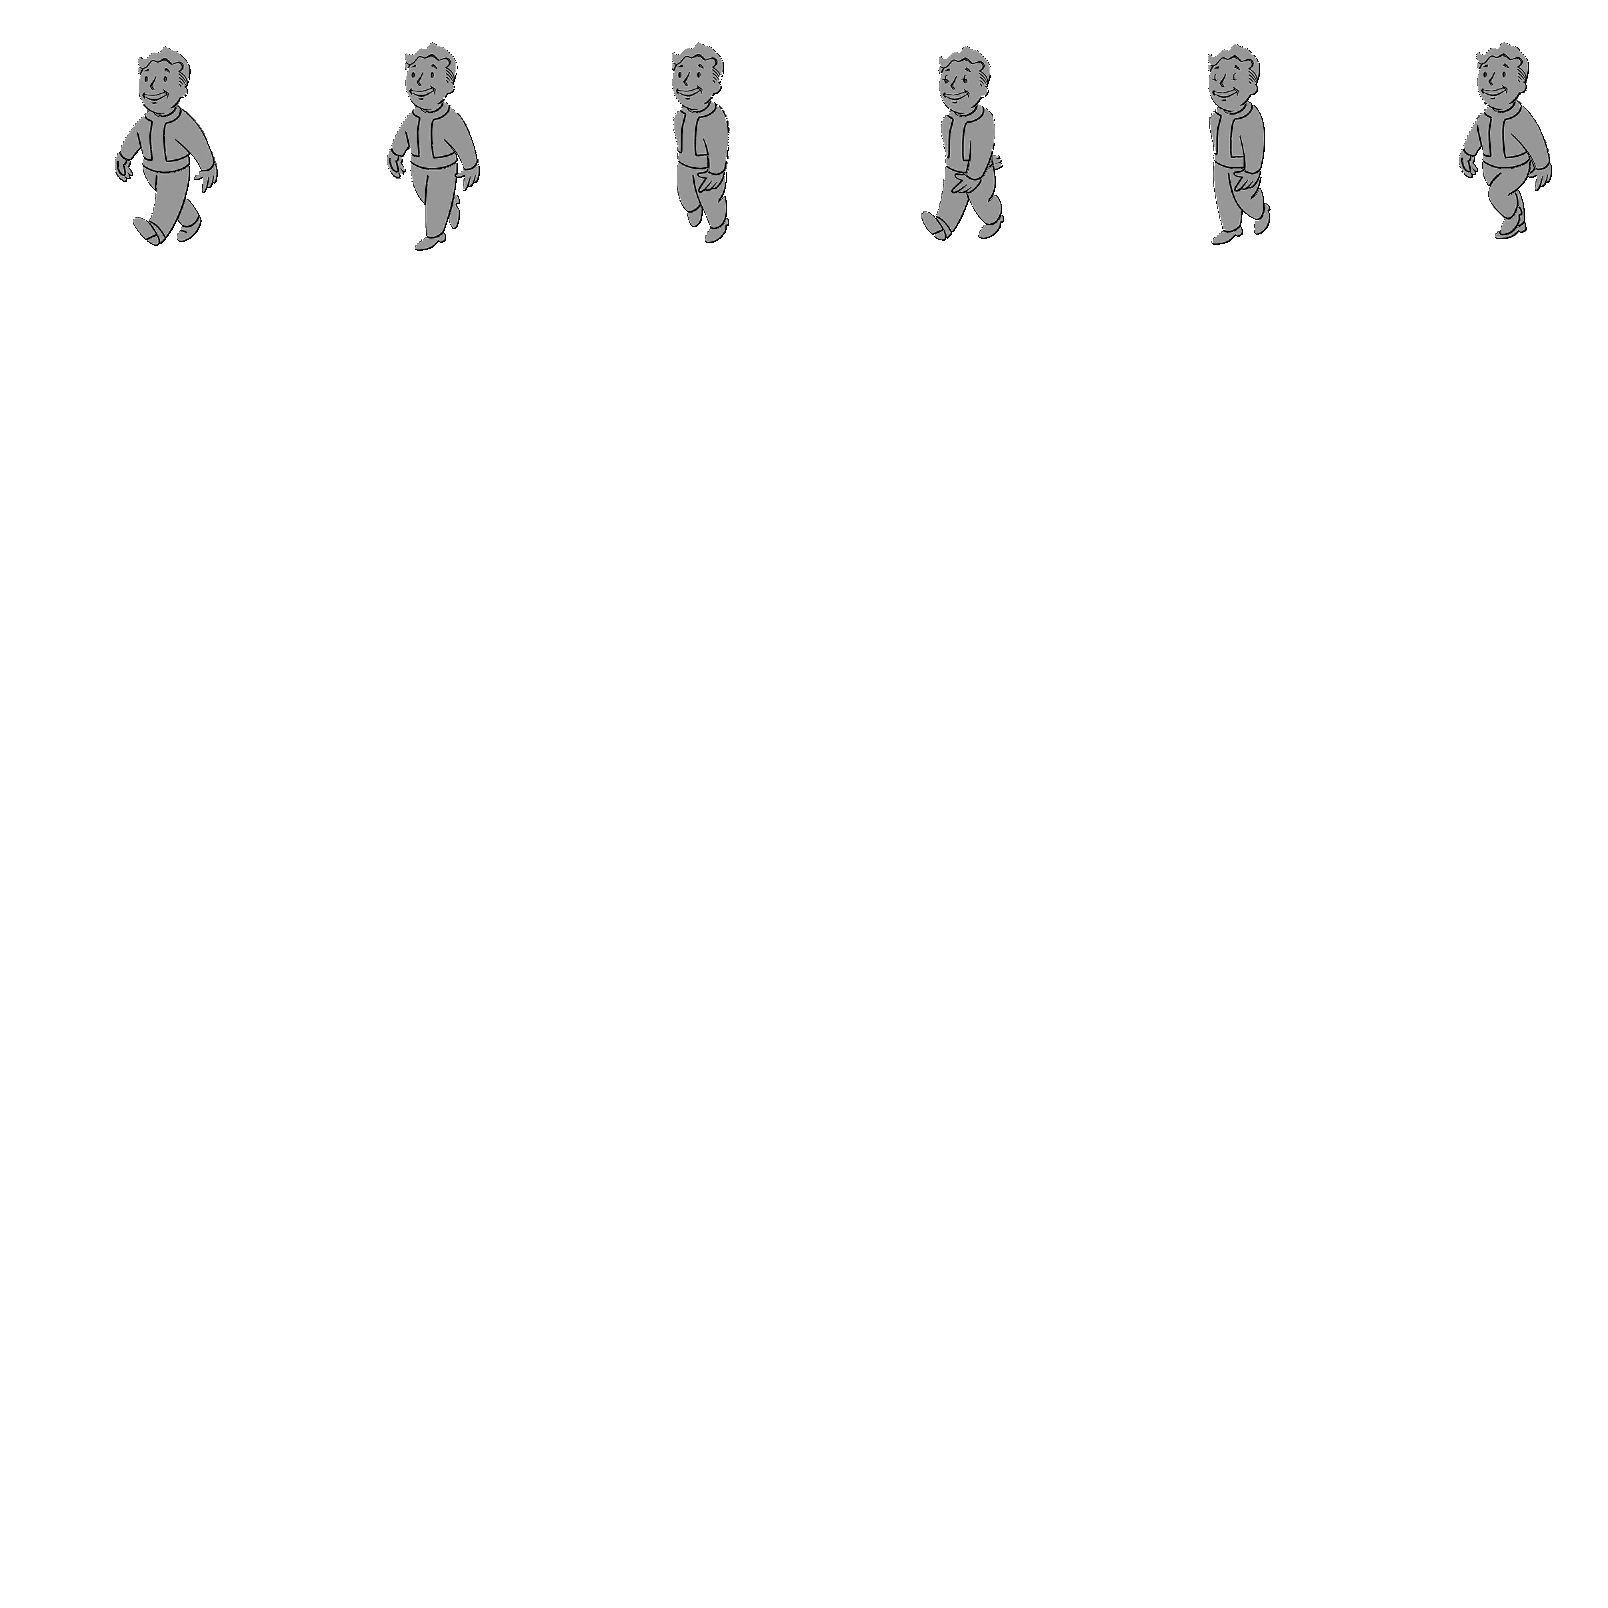
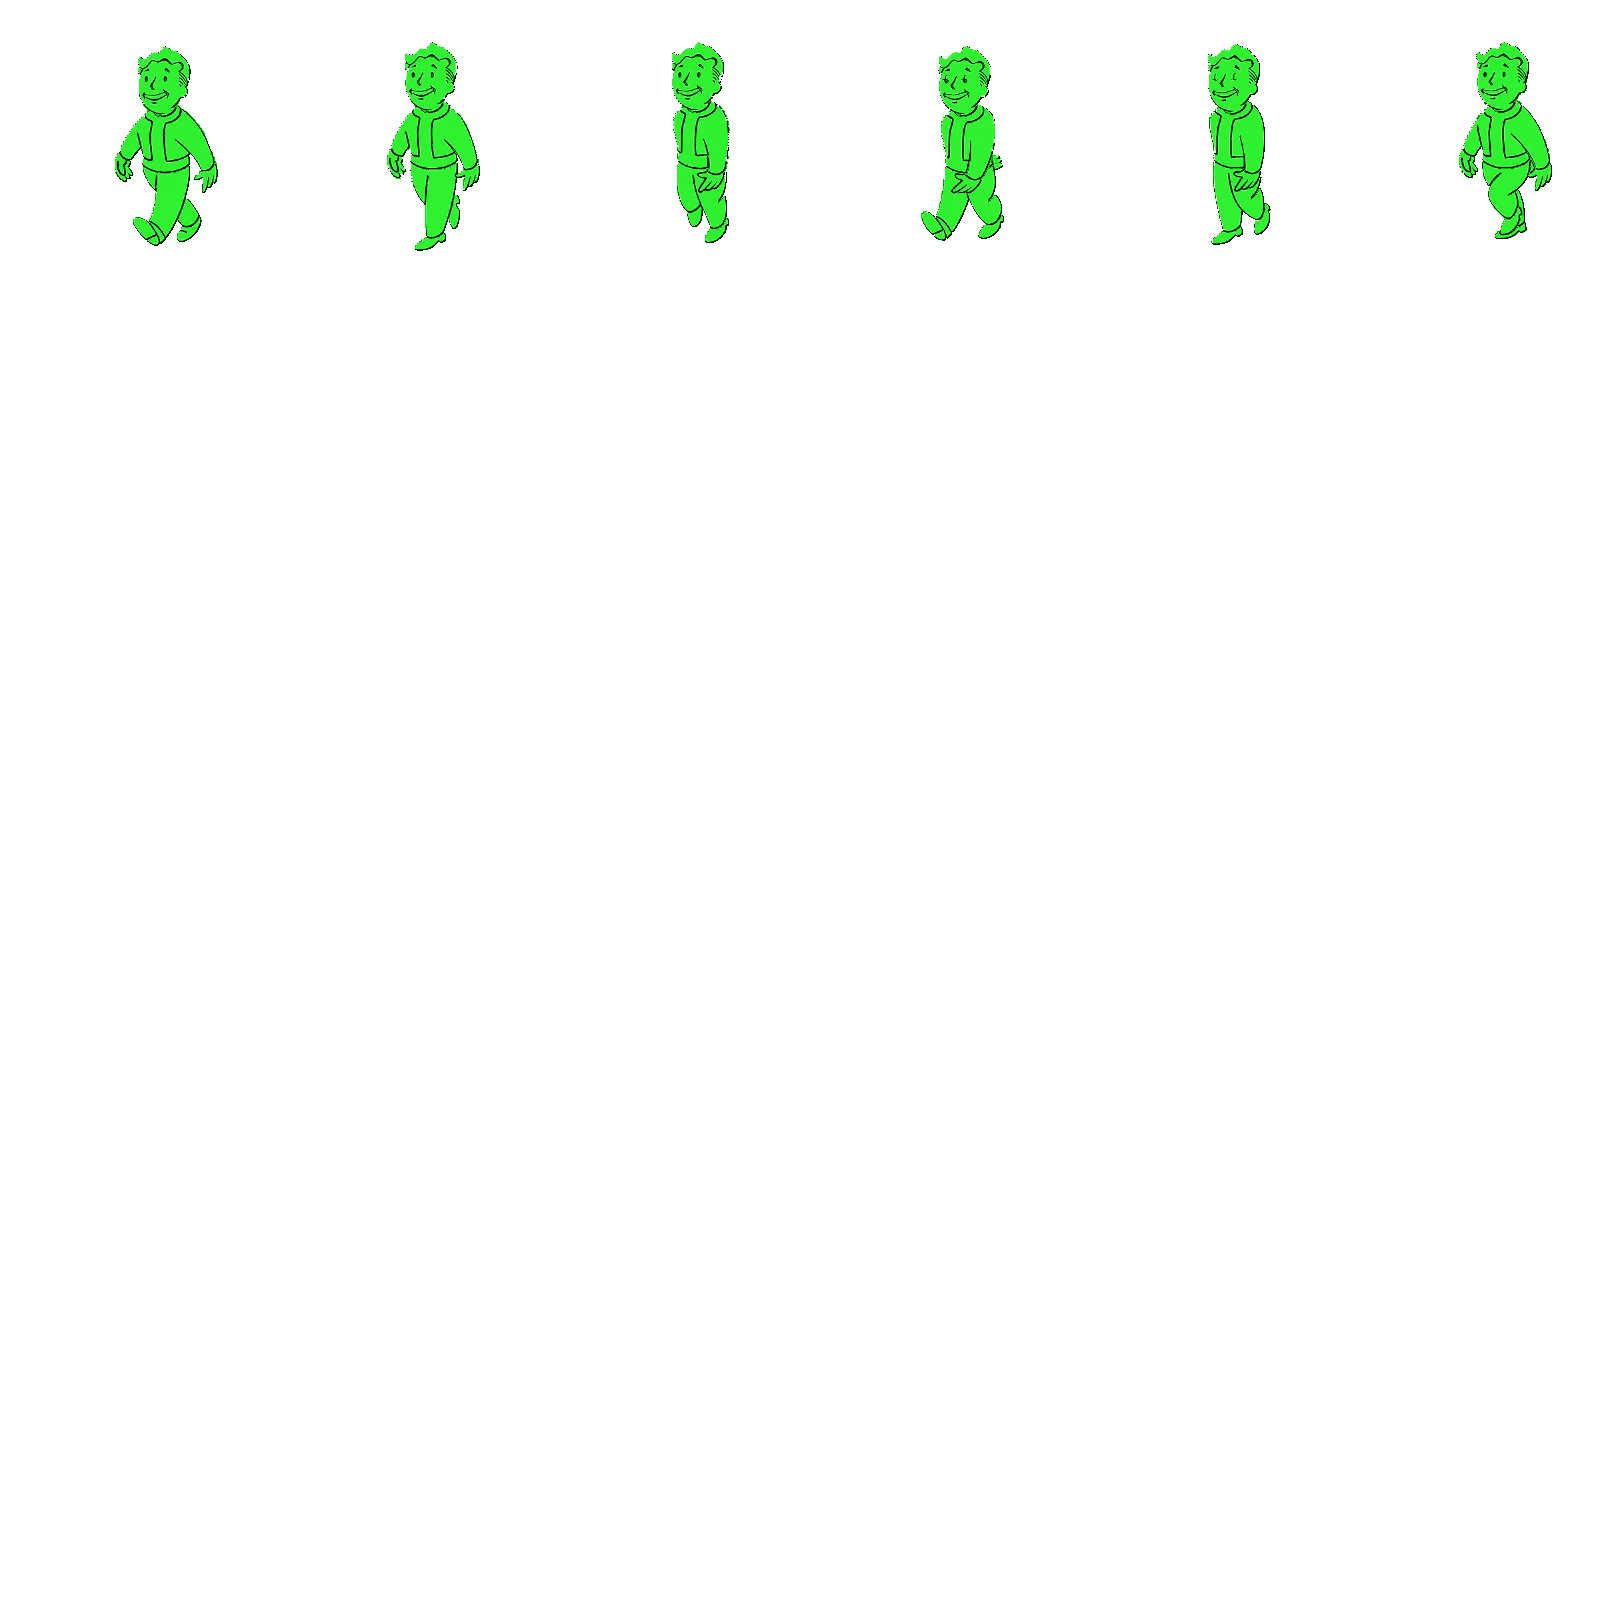
fixed colors for the vault boy sequence and the buttons rendering, as well as adding bloom to the final product rendered on screen

diff --git a/main.py b/main.py
@@ -43,7 +43,7 @@ animation_cooldown = 250
 frame = 0
 
 for x in range(animation_steps):
-    animation_list.append(sprite_sheet.get_image(x, 268, 268, 1, (0, 47, 0)))
+    animation_list.append(sprite_sheet.get_image(x, 268, 268, 1, (0, 0, 0)))
 
 clock = pygame.time.Clock()
 indexOfTab = 0
@@ -118,6 +118,24 @@ const float ScanlineOffset = 0.0;
 const vec3 Floor = vec3(0.05, 0.05, 0.05);
 const vec3 Power = vec3(0.8, 0.8, 0.8);
 
+const float bloomThreshold = 0.8; // Brightness threshold for bloom
+const float bloomIntensity = 0.03; // Intensity of bloom effect
+const int bloomBlurSize = 1; // Number of samples for bloom blur
+
+vec4 applyBloom(vec2 coord, vec4 baseColor) {
+    vec4 bloomColor = Zero;
+    for (int x = -bloomBlurSize; x <= bloomBlurSize; x++) {
+        for (int y = -bloomBlurSize; y <= bloomBlurSize; y++) {
+            vec2 sampleCoord = coord + vec2(x, y) * 0.01; // 0.002 controls the spread of the bloom
+            vec4 sampleOf = texture(DiffuseSampler, sampleCoord);
+            if (sampleOf.r > bloomThreshold || sampleOf.g > bloomThreshold || sampleOf.b > bloomThreshold) {
+                bloomColor += sampleOf * bloomIntensity;
+            }
+        }
+    }
+    return baseColor + bloomColor;
+}
+
 void main() {
     vec2 modifiedTexCoord = texCoord;
     float scanlineScaleFactor = 0.0;
@@ -166,7 +184,8 @@ void main() {
     vec3 grayscale = vec3(dot(ScanlineTexel, vec3(1, 1, 1)));  // Adjusted grayscale conversion
     grayscale = pow(grayscale, Power);  // Gamma correction
 
-    fragColor = vec4(colorization * grayscale, 1.0);
+    vec4 colorOutput = vec4(colorization * grayscale, 1.0);
+    fragColor = applyBloom(ScreenClipCoord, colorOutput);
 }
 '''
 
@@ -223,25 +242,25 @@ while True:
             if RADIOButtonRect.collidepoint(event.pos):
                 indexOfTab = 4
         if STATButtonRect.collidepoint(pygame.mouse.get_pos()):
-            statColor = (0, 255, 255)
+            statColor = (0, 238, 0)
         else:
-            statColor = (0, 120, 120)
+            statColor = (0, 142, 0)
         if INVButtonRect.collidepoint(pygame.mouse.get_pos()):
-            invColor = (0, 255, 255)
+            invColor = (0, 238, 0)
         else:
-            invColor = (0, 120, 120)
+            invColor = (0, 142, 0)
         if DATAButtonRect.collidepoint(pygame.mouse.get_pos()):
-            dataColor = (0, 255, 255)
+            dataColor = (0, 238, 0)
         else:
-            dataColor = (0, 120, 120)
+            dataColor = (0, 142, 0)
         if MAPButtonRect.collidepoint(pygame.mouse.get_pos()):
-            mapColor = (0, 255, 255)
+            mapColor = (0, 238, 0)
         else:
-            mapColor = (0, 120, 120)
+            mapColor = (0, 142, 0)
         if RADIOButtonRect.collidepoint(pygame.mouse.get_pos()):
-            radioColor = (0, 255, 255)
+            radioColor = (0, 238, 0)
         else:
-            radioColor = (0, 120, 120)
+            radioColor = (0, 142, 0)
 
     stats = font.render("STAT", True, statColor)
     statsRect = stats.get_rect(center=(STATButton.get_width() / 2, STATButton.get_height() / 2))
